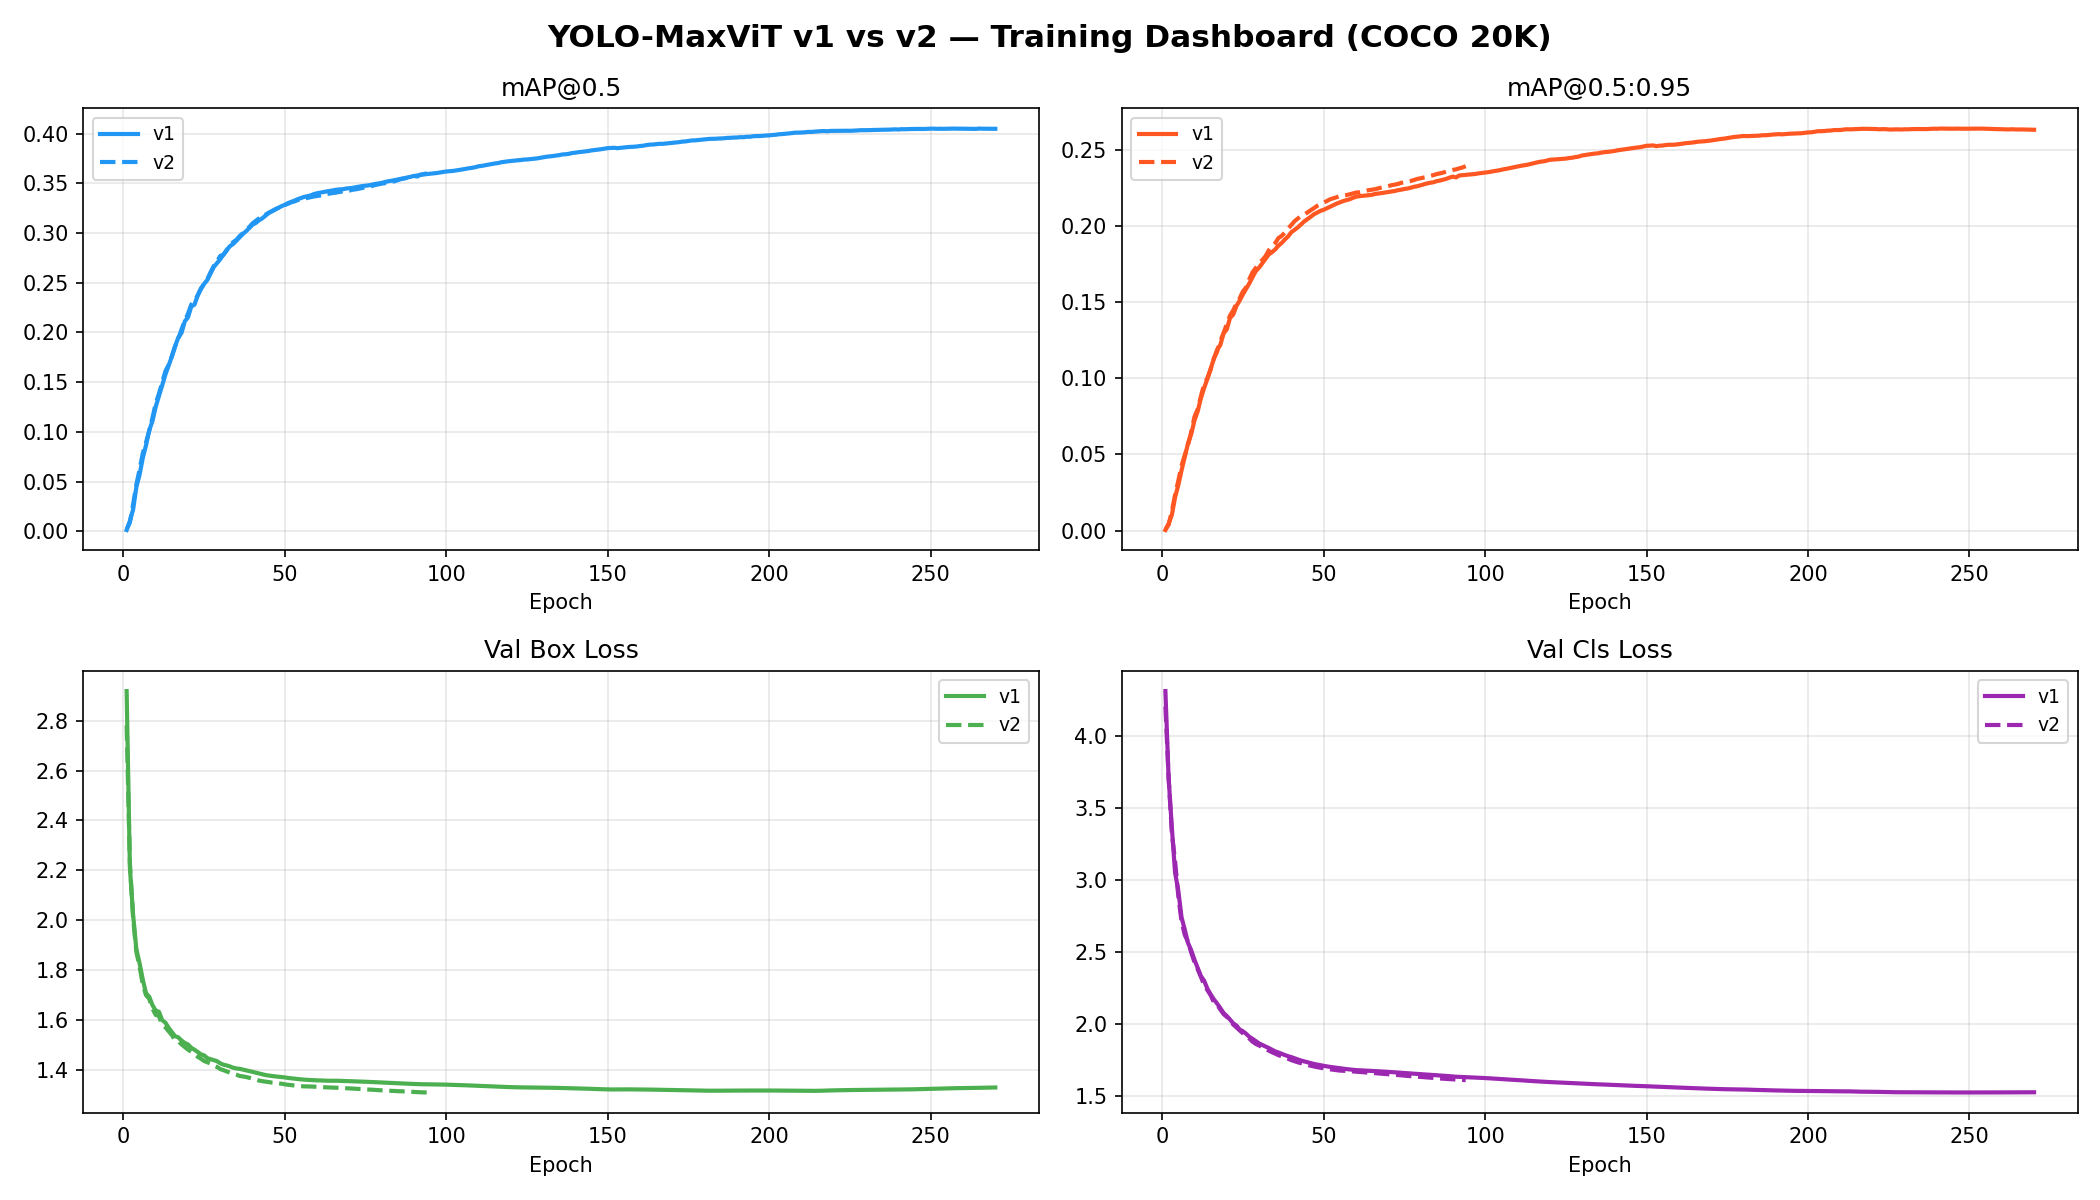
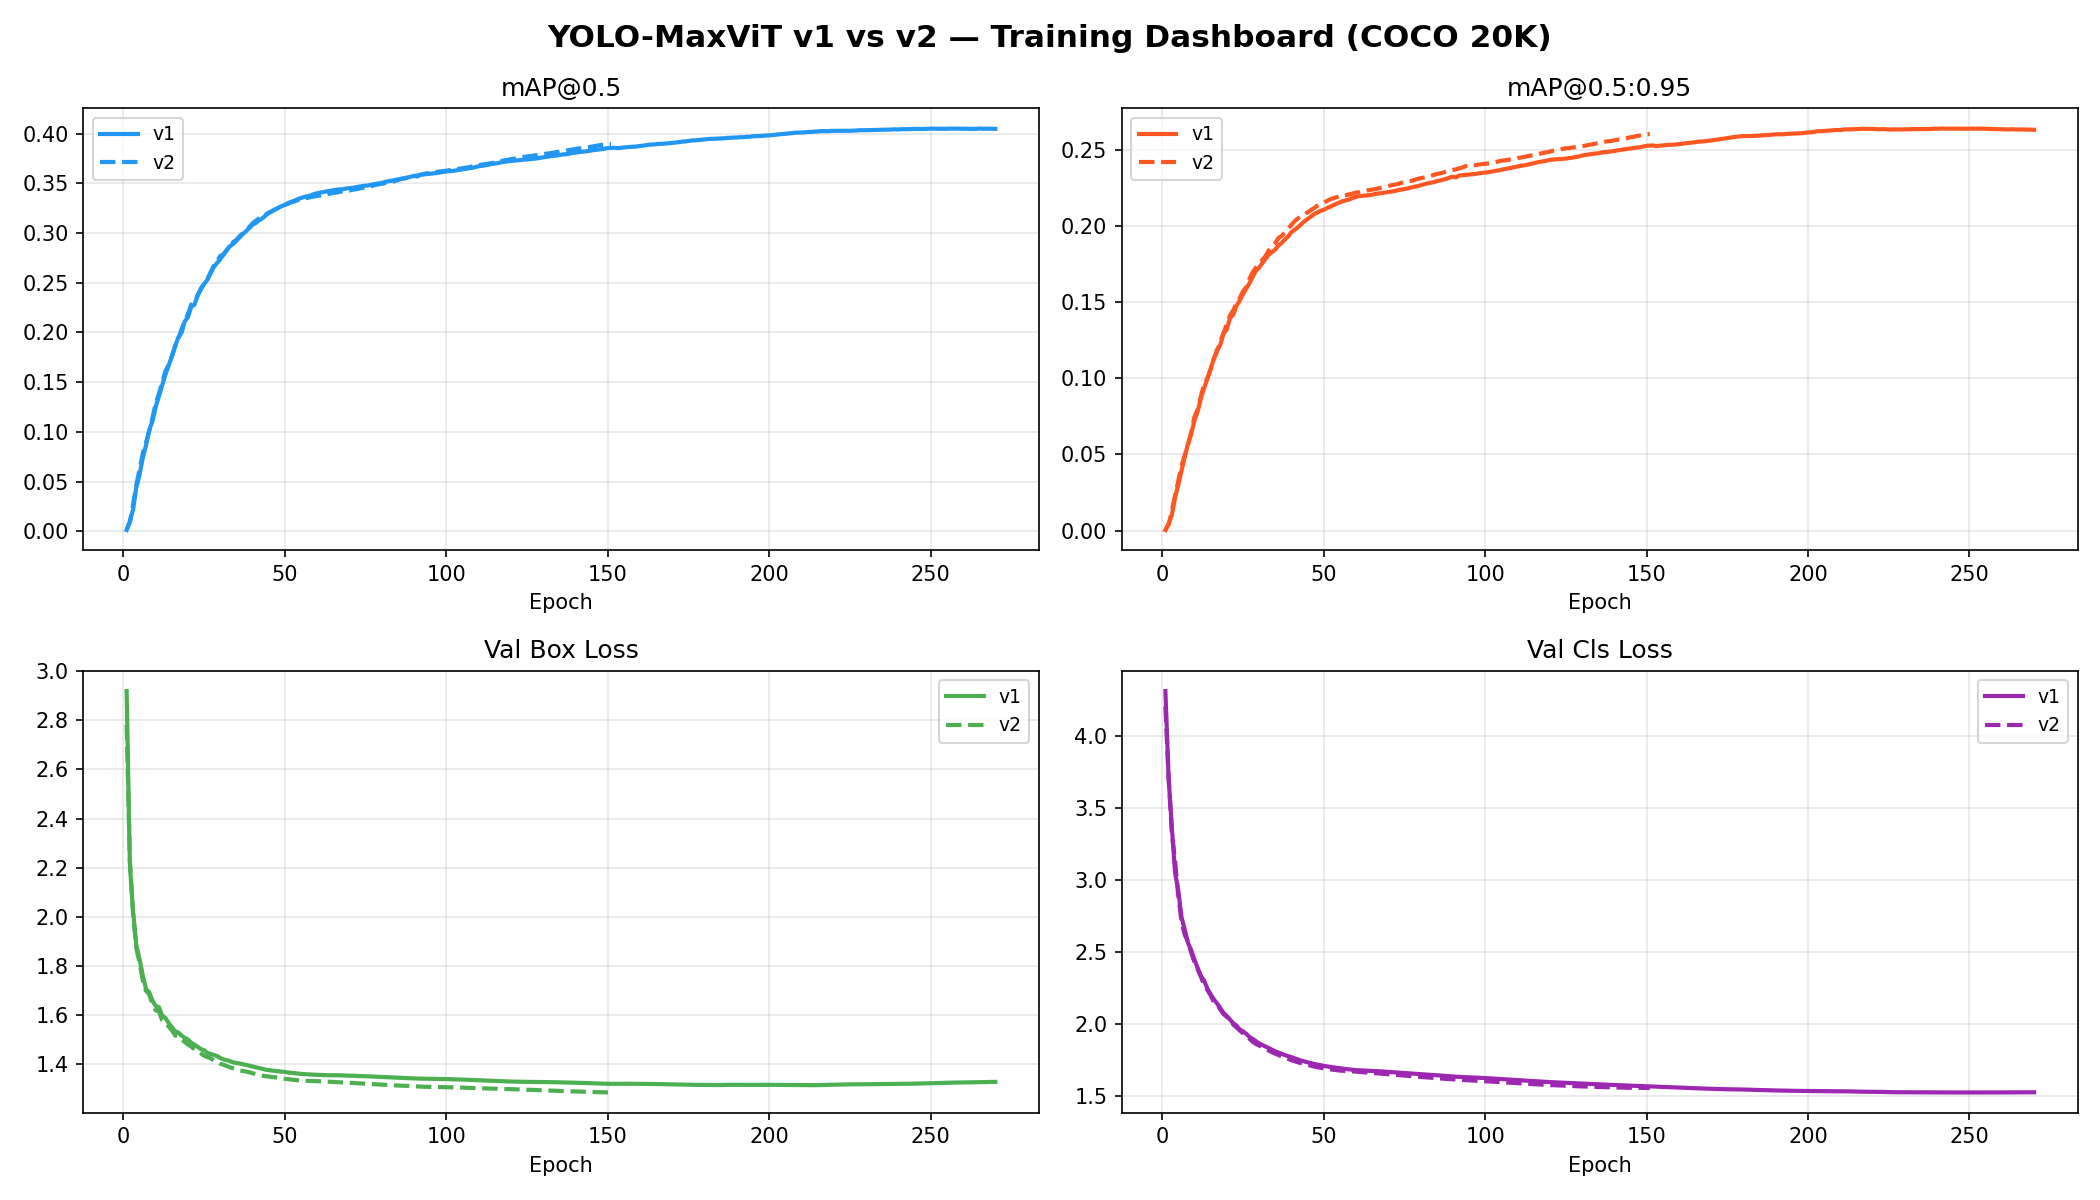
Update README_V2: epoch 120 results + refresh comparison plots

Changed region(s): [[0.1238, 0.8942, 0.4643, 0.925], [0.0929, 0.8633, 0.1238, 0.8942], [0.0619, 0.8325, 0.0929, 0.8633]]

diff --git a/README_V2.md b/README_V2.md
@@ -2,7 +2,7 @@
 
 **Lightweight variant with reduced compute (~40 GFLOPs vs 170) while maintaining accuracy**
 
-> ⏳ **Training in progress** — 90/300 epochs on COCO 2017 20K subset
+> ⏳ **Training in progress** — 120/300 epochs on COCO 2017 20K subset
 
 ---
 
@@ -55,9 +55,9 @@ The key insight: transformer attention's benefit scales with semantic importance
 
 | Metric | Value |
 |---|---|
-| Epochs completed | 90 / 300 |
-| Best mAP@0.5 so far | 0.357 |
-| Best mAP@0.5:0.95 so far | 0.237 |
+| Epochs completed | 120 / 300 |
+| Best mAP@0.5 so far | 0.374 |
+| Best mAP@0.5:0.95 so far | 0.249 |
 | Training time per epoch | ~4.8–5.2 min |
 
 ### v2 Training Progress (every 30 epochs)
@@ -67,8 +67,8 @@ The key insight: transformer attention's benefit scales with semantic importance
 | 1 | 0.002 | 0.001 | 3.371 | 4.983 |
 | 30 | 0.277 | 0.176 | 1.406 | 2.136 |
 | 60 | 0.337 | 0.222 | 1.331 | 1.890 |
-| **90** | **0.357** | **0.237** | **1.281** | **1.721** |
-| 120 | — | — | — | — |
+| 90 | 0.357 | 0.237 | 1.281 | 1.721 |
+| **120** | **0.374** | **0.249** | **1.259** | **1.659** |
 | 150 | — | — | — | — |
 | 180 | — | — | — | — |
 | 210 | — | — | — | — |
@@ -103,7 +103,7 @@ The key insight: transformer attention's benefit scales with semantic importance
 | 30 | 0.274 | 0.277 | 0.173 | 0.176 |
 | 60 | 0.340 | 0.337 | 0.219 | 0.222 |
 | 90 | 0.358 | 0.357 | 0.232 | 0.237 |
-| 120 | 0.372 | — | 0.243 | — |
+| 120 | 0.372 | 0.374 | 0.243 | 0.249 |
 | 150 | 0.385 | — | 0.253 | — |
 | 180 | 0.394 | — | 0.259 | — |
 | 210 | 0.401 | — | 0.263 | — |